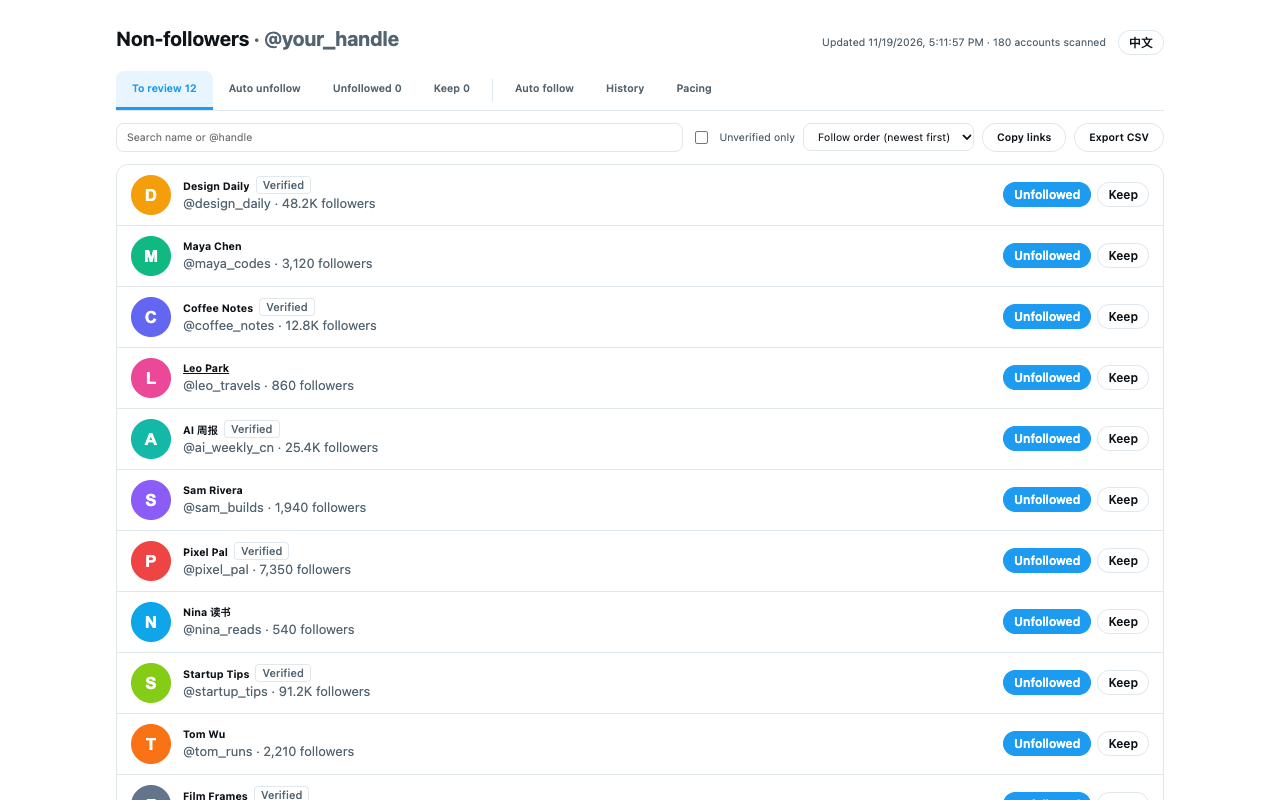
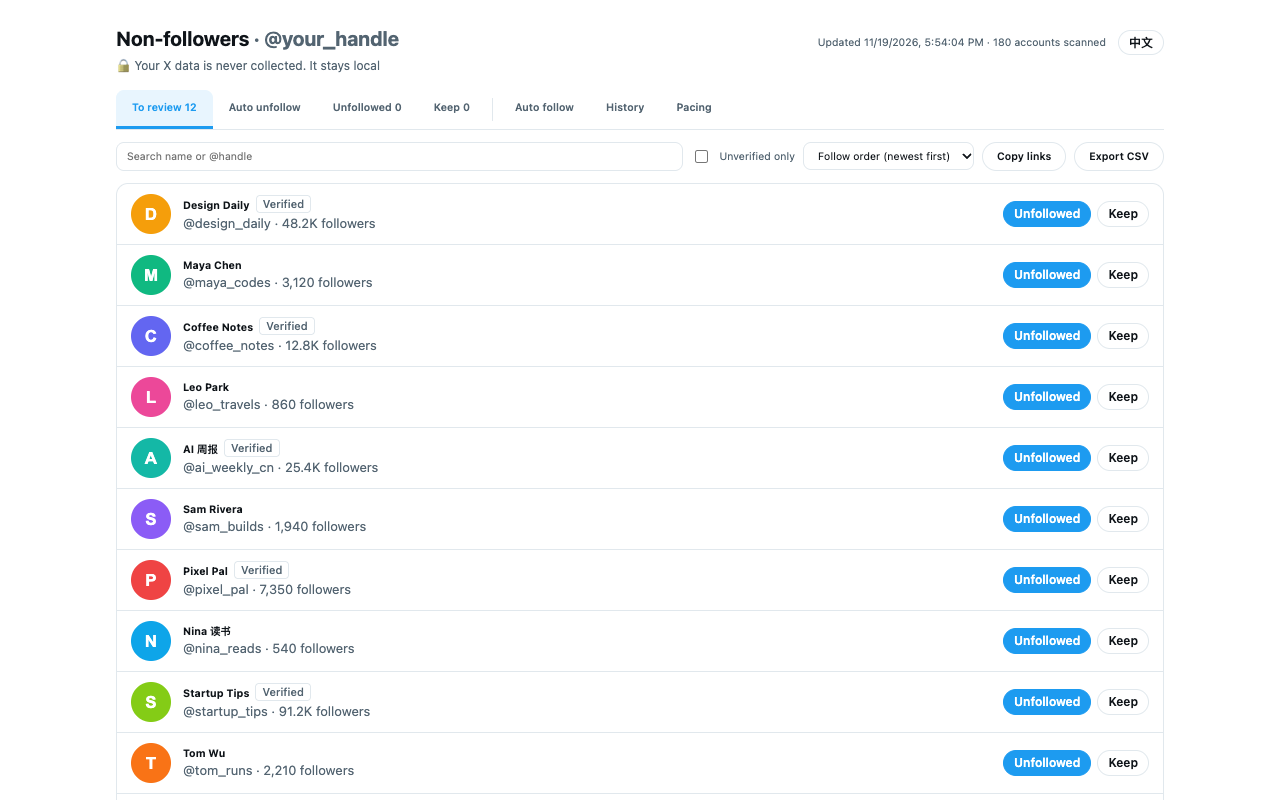
[feature][隐私政策与 README 写明不收集用户的 X 数据，截图更新]

Changed region(s): [[0.0938, 0.0625, 0.9062, 1.0], [0.625, 0.0312, 0.75, 0.0625]]

diff --git a/PRIVACY.md b/PRIVACY.md
@@ -8,11 +8,15 @@ X Helper (Chrome extension) · Last updated: November 19, 2026
 
 X Helper is an independent browser extension. It is not affiliated with, endorsed by, or sponsored by X Corp.
 
+**X Helper does not collect your X data.** Everything the extension reads from X and everything it records is stored only on your own device. None of it is uploaded to the developer or anyone else.
+
 ### What the extension does
 
 It shows which accounts you follow on X (x.com) don't follow you back. When you start a task, it can also follow or unfollow accounts on x.com for you, at a slow pace. It runs only on x.com pages.
 
-### Data the extension reads
+### Data the extension reads (on your device only)
+
+The extension reads the data below inside your browser so it can work. It stays on your device and is never sent to the developer.
 
 When you start a scan, the extension reads the following information from your own following list, as loaded by x.com in your browser while you are logged in:
 
@@ -69,11 +73,15 @@ X 助手（X Helper，Chrome 插件）· 最后更新：2026 年 11 月 19 日
 
 X 助手是独立开发的浏览器插件，与 X Corp. 没有关联，也未获得其认可或赞助。
 
+**X 助手不收集你的 X 数据。** 插件从 X 读到的内容、插件记录的内容，都只保存在你自己的设备上，不会上传给开发者或任何其他人。
+
 ### 插件做什么
 
 插件帮你查看在 X（x.com）上你关注的人里，有哪些没有回关你。你开始任务后，插件还可以按慢速节奏在 x.com 上帮你关注或取关。插件只在 x.com 页面上运行。
 
-### 插件读取哪些数据
+### 插件读取哪些数据（只在你的设备上）
+
+插件为了工作，会在你的浏览器里读取下面这些数据。它们只留在你的设备上，不会发给开发者。
 
 开始扫描后，插件会从你登录状态下 x.com 在浏览器里加载的关注列表中读取：
 

diff --git a/README.md b/README.md
@@ -2,6 +2,8 @@
 
 Chrome extension that shows which accounts you follow on X don't follow you back, and can unfollow them for you at a slow, steady pace.
 
+X Helper does not collect your X data. All of it stays on your own device. X 助手不收集你的 X 数据，所有 X 数据都只保存在你的本机。
+
 **Download:** [latest release](https://github.com/certhon/x-helper/releases/latest) · **Privacy policy:** [PRIVACY.md](PRIVACY.md) · **Author:** [@certhon520 on X](https://x.com/certhon520)
 
 Install: unzip the release file, open `chrome://extensions`, turn on Developer mode, click **Load unpacked**, and choose the unzipped folder.
@@ -15,7 +17,7 @@ Install: unzip the release file, open `chrome://extensions`, turn on Developer m
 - Auto follow: follow people from another account's followers or following list, with a follower range and a limit.
 - Slow pacing: at least 3 seconds between steps, rests between batches, a daily limit. Pauses by itself when X rate-limits or asks for verification.
 - A floating progress panel on x.com with Pause, Resume and Stop. History of every follow and unfollow, exportable as CSV.
-- Your data stays in your browser. The only thing sent out is an anonymous usage count (random install ID, event name, version), see [PRIVACY.md](PRIVACY.md).
+- **Does not collect your X data.** Your following list, account details, marks and history stay on your device and are never uploaded. The only thing sent out is an anonymous usage count (random install ID, event name, version, language) with no X data in it. See [PRIVACY.md](PRIVACY.md).
 
 Aggressive bulk following or unfollowing is against X's rules and can get an account limited. The defaults are slow; use them responsibly.
 
